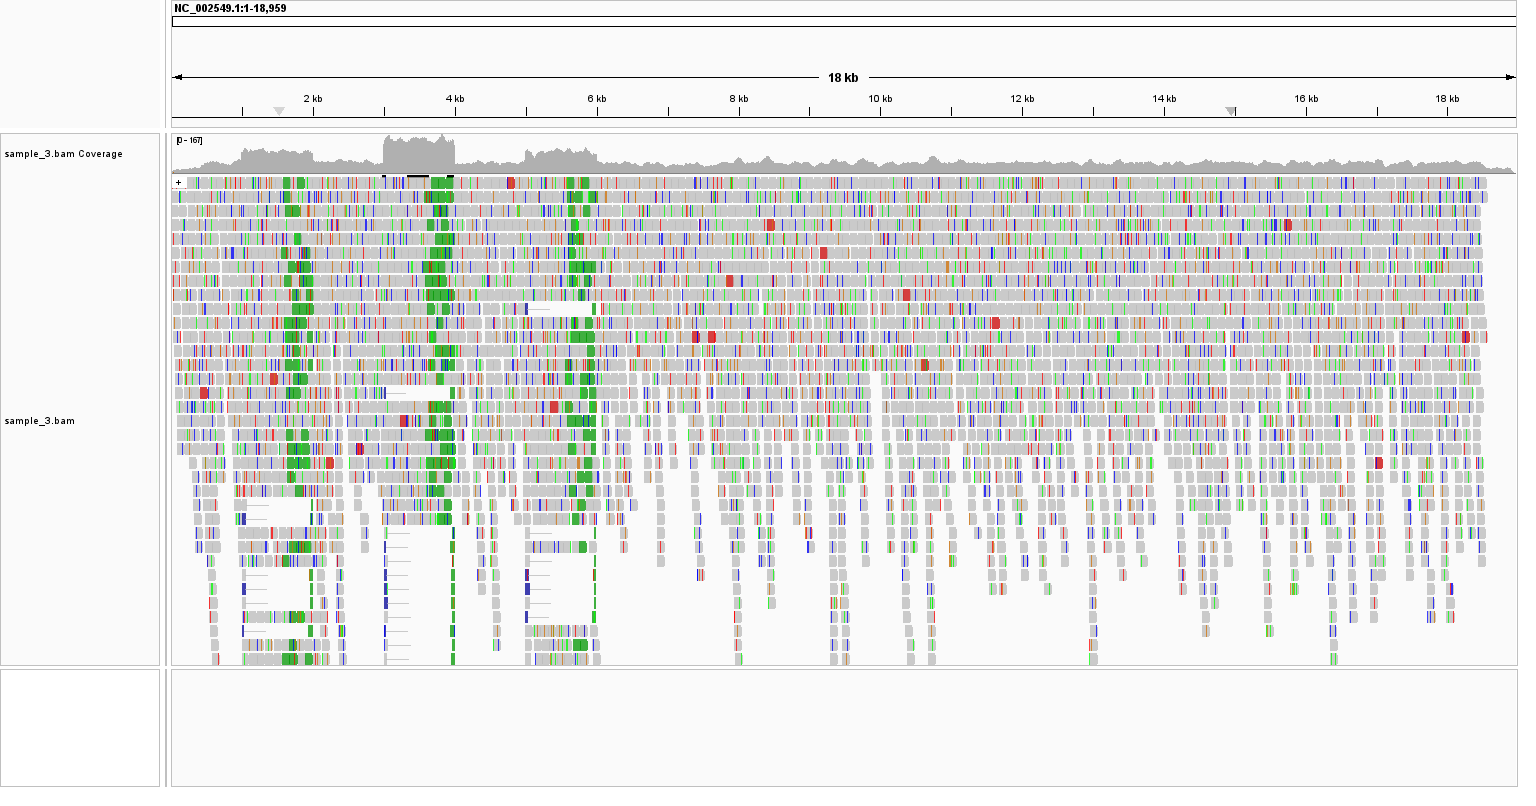
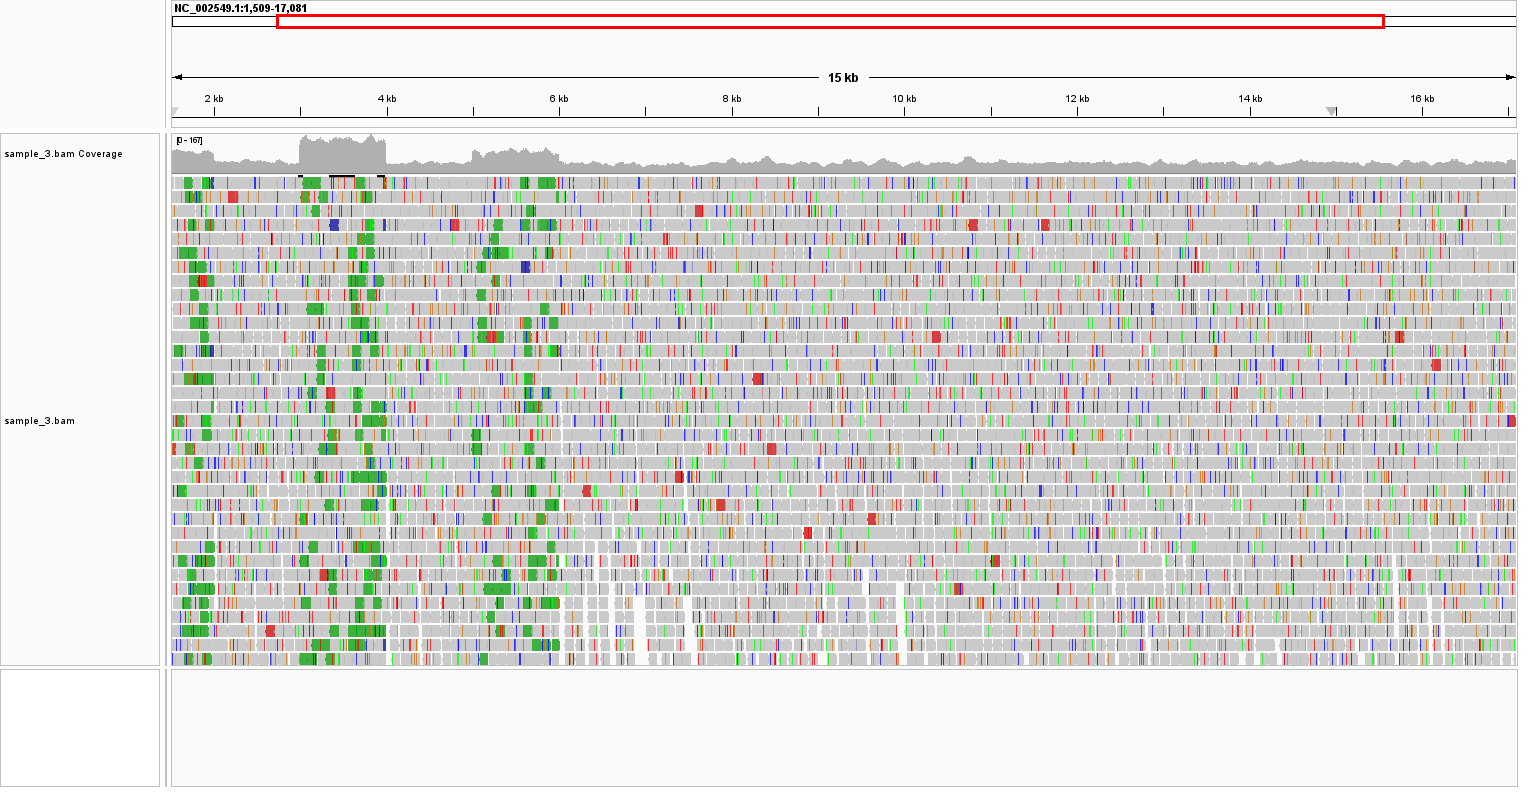
Week 6 assignment

Changed region(s): [[0.0938, 0.1551, 1.0, 0.8375], [0.1562, 0.0, 0.9062, 0.062]]

diff --git a/Week-6/README.md b/Week-6/README.md
@@ -32,11 +32,11 @@
 
 ## Sample 3: Tandem Duplication
 
-### Sample 3 Overview
-![Sample 3 Overview](Sample%203%20overview.png)
-
 ### Sample 3a Overview
 ![Sample 3a Overview](Sample%203a%20overview.png)
+
+### Sample 3b Overview
+![Sample 3b Overview](Sample%203b%20overview.png)
 
 ### Sample 3 - Colored by Pair Orientation
 ![Sample 3 by Pair Orientation](Sample%203%20overview%20%20by%20pair%20orientation.png)
